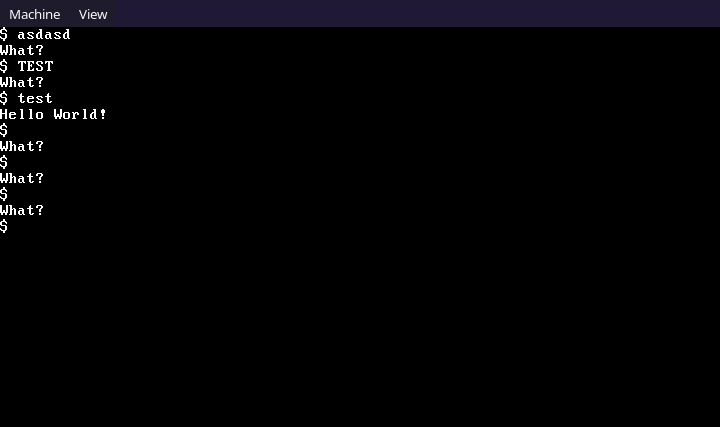
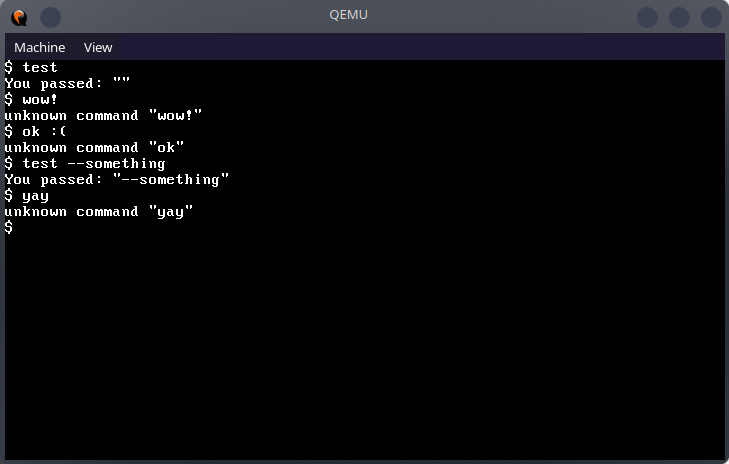
Dynamic loading of shell commands

diff --git a/Shell.cpp b/Shell.cpp
@@ -1,54 +1,58 @@
 #include <cstdlib>
 #include <cstdio>
 #include <cstdint>
+#include "src/simple_map.h"
+
+#include "shell/test.cpp"
 
 #define SHELL_MEM 2048
 
 class Shell {
-    char input[256]{};
     uint8_t inputLength = 0;
 
     void run() {
-        char* instring = static_cast<char*>(malloc(256));
+        auto command = static_cast<char*>(malloc(256));
+        auto arguments = static_cast<char*>(malloc(256));
         uint8_t i = 0;
-        for (; i < this->inputLength; i++) {
-            instring[i] = this->input[i];
+
+        for (; i < this->inputLength && this->input[i] != ' '; i++) {
+            command[i] = this->input[i];
         }
-        instring[i] = 0;
+        command[i] = 0;
+
+        // skip empty space
+        i++;
+
+        for (uint8_t x = 0; i < this->inputLength;) {
+            arguments[x++] = this->input[i++];
+        }
+        arguments[i] = 0;
+
         putchar('\n');
 
-        // TODO: actual parsing once i implement cstring :)
-        bool test = false;
-        if (instring[0] == 't') {
-            if (instring[1] == 'e') {
-                if (instring[2] == 's') {
-                    if (instring[3] == 't') {
-                        if (instring[4] == ' ' || instring[4] == '\0') {
-                            char foo[20];
-                            strcpy(foo, "Hello");
-                            strcat(foo, " World!");
-                            printf("%s\n", foo);
-
-                            test = true;
-                        }
-                    }
-                }
-            }
+        void* call = this->commands->get(command);
+        if (call == nullptr) {
+            printf("unknown command \"%s\"\n", command);
+        } else {
+            reinterpret_cast<void(*)(const char*)>(call)(static_cast<const char*>(arguments));
         }
 
-        if (!test) {
-            printf("What?\n\0");
-        }
-
-        free(instring);
+        free(command);
+        free(arguments);
         inputLength = 0;
     }
 public:
+    char* input;
+    simple_map* commands;
+
     void handleKeyDown(KeyBoard* keyboard, uint8_t keyCode) {
         if (keyCode == 0x1C) {
             this->run();
             puts("$ \0");
-        } else if (this->inputLength < 256) {
+        } else if (keyCode == 0xE) {
+            text_out::back();
+            this->input[--this->inputLength] = 0;
+        }else if (this->inputLength < 256) {
             char c = keyboard->getChar(keyCode);
 
             putchar(c);
@@ -57,12 +61,17 @@ public:
     }
 
     void handleKeyUp(KeyBoard* keyboard, uint8_t keyCode) {
+
     }
 };
 
 Shell* shell() {
     auto* instance = static_cast<Shell*>(malloc(SHELL_MEM));
+    instance->input = static_cast<char*>(malloc(255));
     puts("$ \0");
+
+    instance->commands = new simple_map(static_cast<size_t>(256));
+    instance->commands->set("test", reinterpret_cast<void*>(&shell_test));
 
     return instance;
 }

diff --git a/src/simple_map.h b/src/simple_map.h
@@ -1,0 +1,82 @@
+#ifndef SIMPLE_MAP_H
+#define SIMPLE_MAP_H
+
+#include <cstddef>
+#include <cstdlib>
+#include <cstring>
+
+// this could probably benefit from using templates
+
+class simple_map_entry {
+public:
+    const char* key;
+    void* value;
+
+    void* operator new(size_t size) {
+        void* ptr = malloc(size);
+
+        return ptr;
+    }
+};
+
+// simple string key -> any value map of fixed size
+class simple_map {
+public:
+    simple_map_entry* entries{};
+    size_t maxSize;
+    size_t size;
+
+    void* operator new(size_t size) {
+        void* ptr = malloc(size);
+
+        return ptr;
+    }
+
+    void operator delete(void* ptr) {
+        free(ptr);
+    }
+
+    void set(const char* key, void* value) {
+        size_t i = 0;
+        while (i < this->size) {
+            if (strcmp(this->entries[i].key, key) == 0) {
+                this->entries[i].value = value;
+
+                return;
+            }
+
+            i++;
+        }
+
+        // TODO: check max size
+
+        this->entries[i].key = key;
+        this->entries[i].value = value;
+        this->size++;
+    }
+
+    void* get(const char* k) const {
+        for (size_t i = 0; i < this->size; i++) {
+            if (strcmp(this->entries[i].key, k) == 0) {
+                return this->entries[i].value;
+            }
+        }
+
+        return nullptr;
+    }
+
+    simple_map() = default;
+    explicit simple_map(const size_t size) : maxSize(size), size(0) {
+        this->entries = reinterpret_cast<simple_map_entry*>(sizeof(size_t) * 2 * size);
+        for (size_t i = 0; i < size; i++) {
+            this->entries[i].key = nullptr;
+            this->entries[i].value = nullptr;
+        }
+    }
+
+    ~simple_map() {
+        free(this->entries);
+    }
+};
+
+#endif //SIMPLE_MAP_H

diff --git a/src/MemoryManager.h b/src/MemoryManager.h
@@ -94,6 +94,9 @@ class MemoryManager {
         }
 
         void free(void* pointer) {
+            // FREEING CURRENTLY CORRUPTS MEMORY
+            return;
+
             auto section = reinterpret_cast<MemorySection*>(reinterpret_cast<size_t>(pointer) - this->overhead);
             section->next = this->availableMemory;
             this->availableMemory->previous = section;

diff --git a/src/text.cpp b/src/text.cpp
@@ -63,6 +63,11 @@ namespace text_out {
         }
     }
 
+    void back() {
+        *text_out_cursor -= 1;
+        setc(' ', *text_out_cursor);
+    }
+
     void print(const char* string) {
    	    while (*string) {
             printc(*string);

diff --git a/shell/test.cpp b/shell/test.cpp
@@ -1,0 +1,3 @@
+void shell_test(const char* args) {
+    printf("You passed: \"%s\"\n", args);
+}
